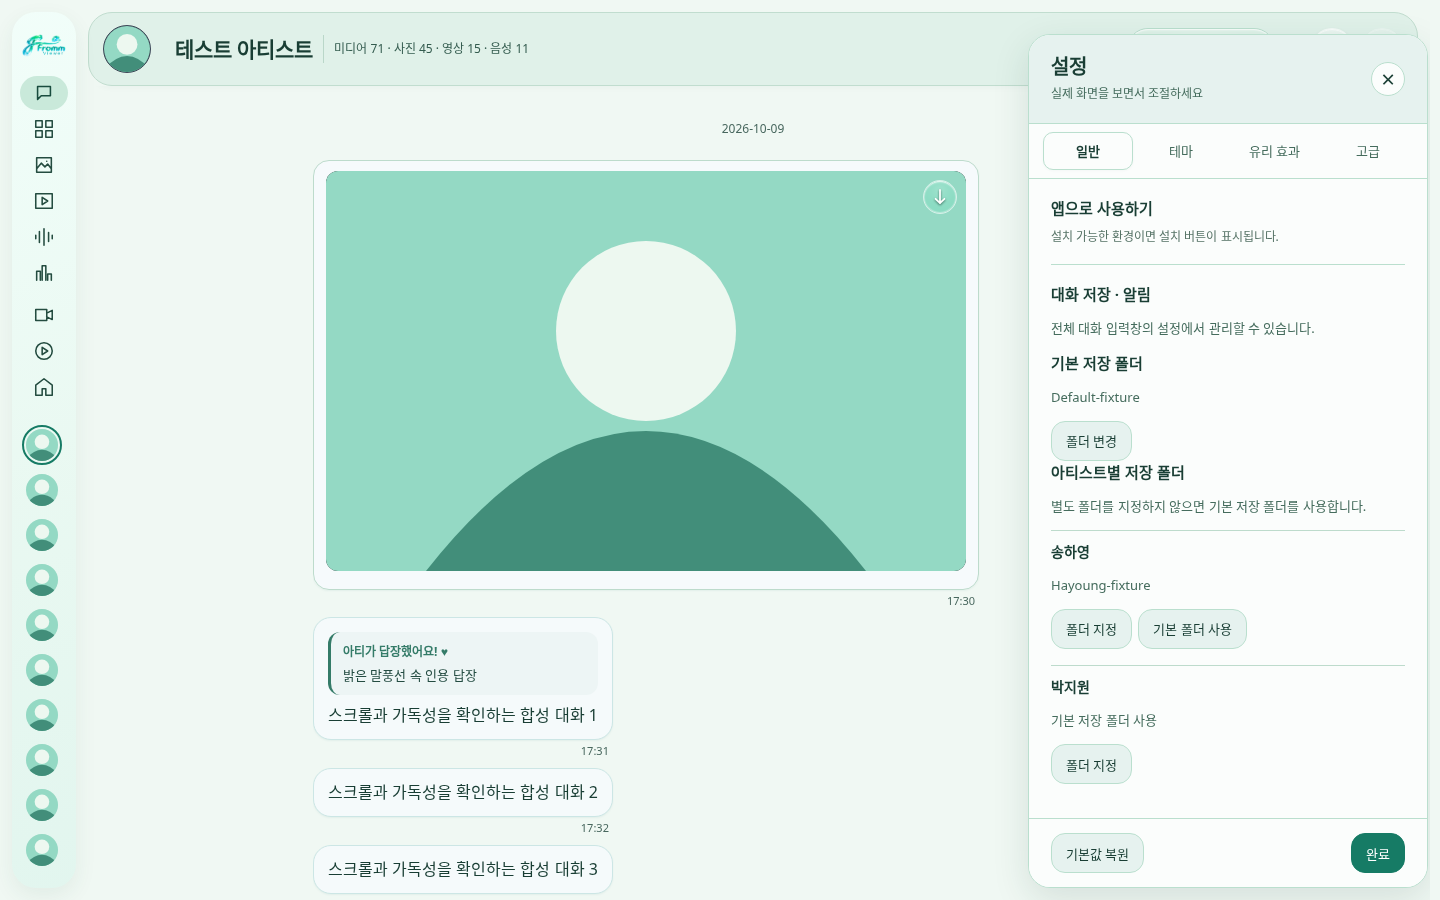
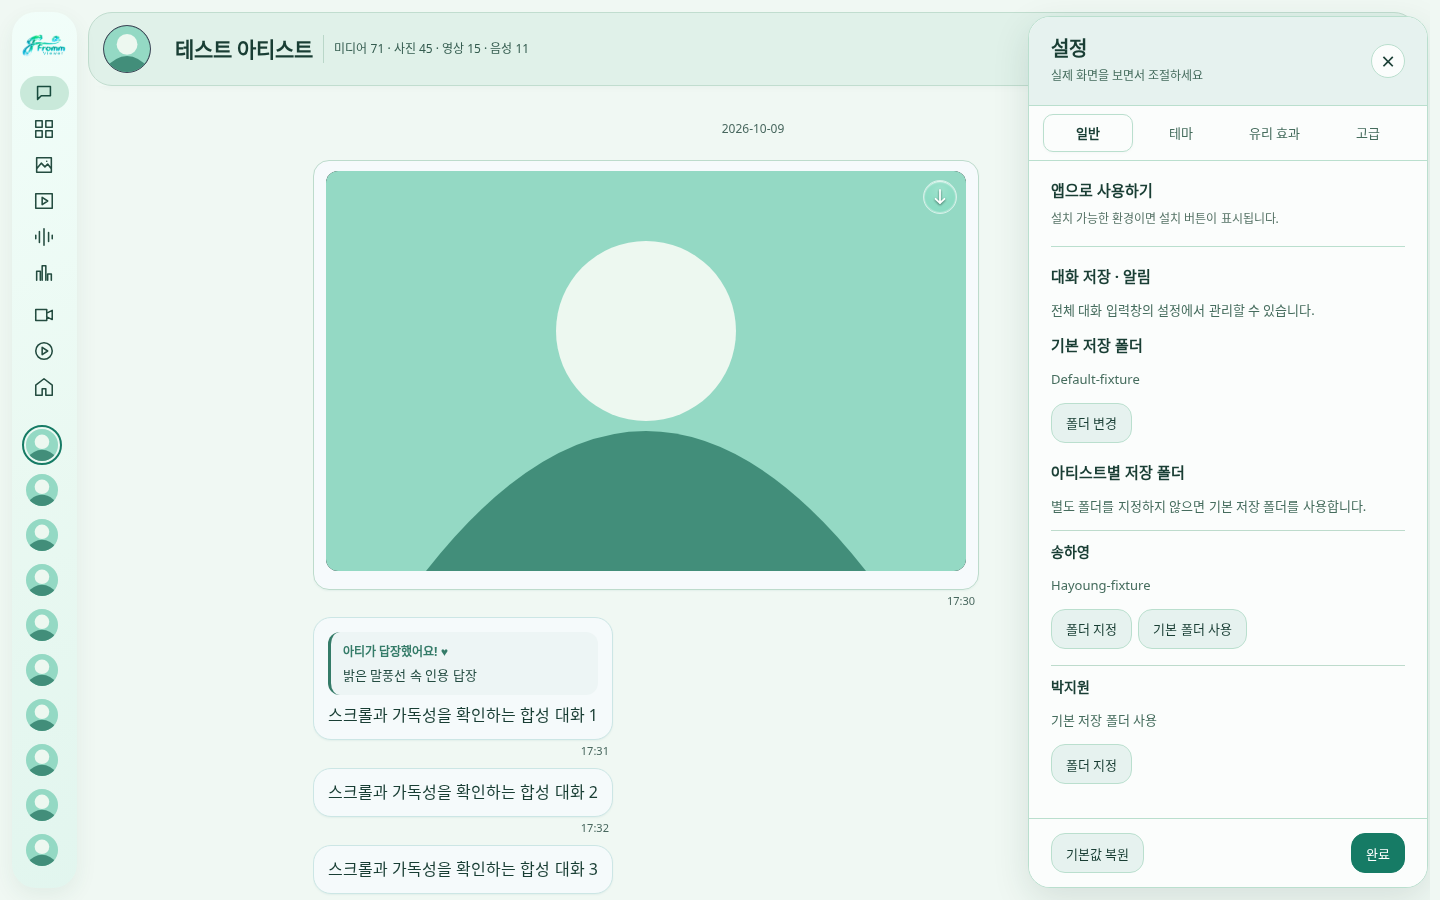
Follow pending blob recovery when preserving chat reader position

diff --git a/web-view-state.js b/web-view-state.js
@@ -103,7 +103,7 @@
  function beforePrepend(start=0,end=0){
   if(!viewerDesktop.matches||state.filter!=='all'||motionCleanup||latestCleanup||pending||restoring)return null;
   const incoming=(state.infiniteList||[]).slice(start,end).some(message=>normType(message.type)==='image');
-  const unresolved=[...document.querySelectorAll('#timeline .media-wrap img')].some(image=>!image.complete);
+  const unresolved=[...document.querySelectorAll('#timeline .media-wrap img')].some(image=>!image.complete||image.dataset.blobRecoveryBusy==='1');
   // Text-only prepends retain their existing scroll and completion behavior.
   if(!incoming&&!unresolved)return null;
   const element=row();if(!element)return null;

diff --git a/CODEX_HANDOFF.md b/CODEX_HANDOFF.md
@@ -12,7 +12,7 @@ The screenshot API produced transient blank capture frames during rapid scrollin
 
 See `docs/design-review/desktop-followups/README.md` for Korean results, static screenshots, GIF, exact folder behavior, birthdate sources, startup limitations and the implemented photo-scroll fix and before/after evidence. The same delayed-photo fixture against `fed9110` drifted 6,557.47px at 1440px and 6,258.66px at 900px; the PC fix measured -0.19px / -0.06px. New tests cover node/request reuse under no-store, amended sources, portrait fit, Blob reuse/disposal and retired asynchronous recovery, manual cancellation, rendering during the watch, responsive exclusion and account clearing. Conversation, refresh/cache restore, source/reply navigation, preview and 50,000-message tests passed; the scale DOM remains 241 rows and complete-cache historical requests remain zero. This is not a signed-in user reproduction or a network redownload guarantee. Native OS pickers, real account media/folders, hardware and Safari are unverified. Public rosters currently need manual metadata updates; unknown groups retain received authors. Receipts: `/workspace/scratch/fromm-*-test.log`, `fromm-unit-followups.log`, `fromm-scroll-diagnosis.json`.
 
-On the first PR #155 head `fed9110`, Linux Chromium/media/Channel checks passed, but Windows conversation jobs hit their time limit after the new startup test accidentally selected uninstalled bundled Chromium instead of the configured Chrome/Edge channel. The launch now respects PLAYWRIGHT_CHANNEL and closes the fixture server even when launch fails. This is a test setup correction. On `4a329a8`, all three conversation channels passed the new image and startup checks, then the existing progressive-history test caught media anchoring being applied to text-only prepends. The hook now runs only for newly inserted photos or unresolved existing photos. Its original background-completion assertion passes locally without changing the history publisher, test expectations or cache rules. Updated-head hosted validation and publication remain pending at this checkpoint. The PR and its final verification comment are authoritative for hosted checks, merge and Pages results. Resume:
+On the first PR #155 head `fed9110`, Linux Chromium/media/Channel checks passed, but Windows conversation jobs hit their time limit after the new startup test accidentally selected uninstalled bundled Chromium instead of the configured Chrome/Edge channel. The launch now respects PLAYWRIGHT_CHANNEL and closes the fixture server even when launch fails. This is a test setup correction. On `4a329a8`, all three conversation channels passed the new image and startup checks, then the existing progressive-history test caught media anchoring being applied to text-only prepends. The hook now runs only for newly inserted photos or unresolved existing photos. Its original background-completion assertion passes locally without changing the history publisher, test expectations or cache rules. A failed direct image can report complete while its Blob byte fallback is still pending; that state is also treated as unresolved, with a reader-preservation test for text prepending during the fallback. The settings screenshot was refreshed against the final spacing. Updated-head hosted validation and publication remain pending at this checkpoint. The PR and its final verification comment are authoritative for hosted checks, merge and Pages results. Resume:
 
 ```sh
 git fetch origin
